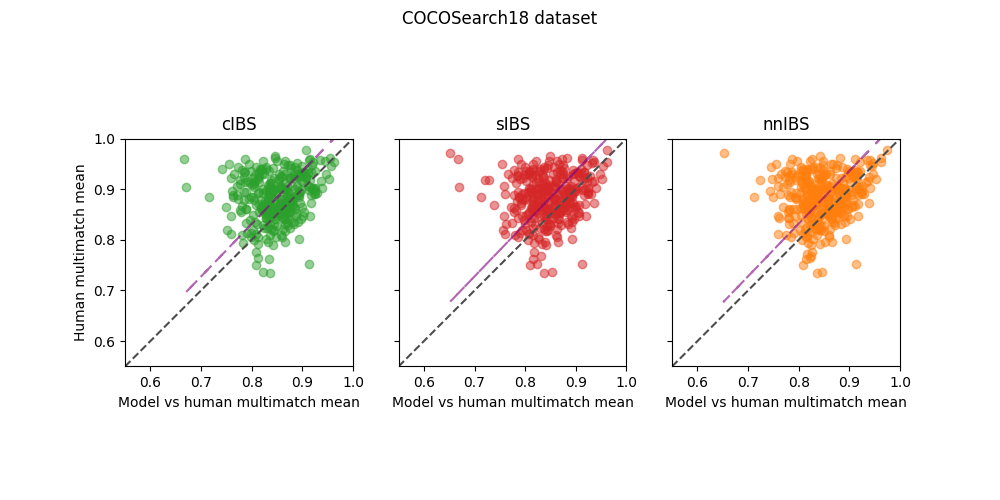
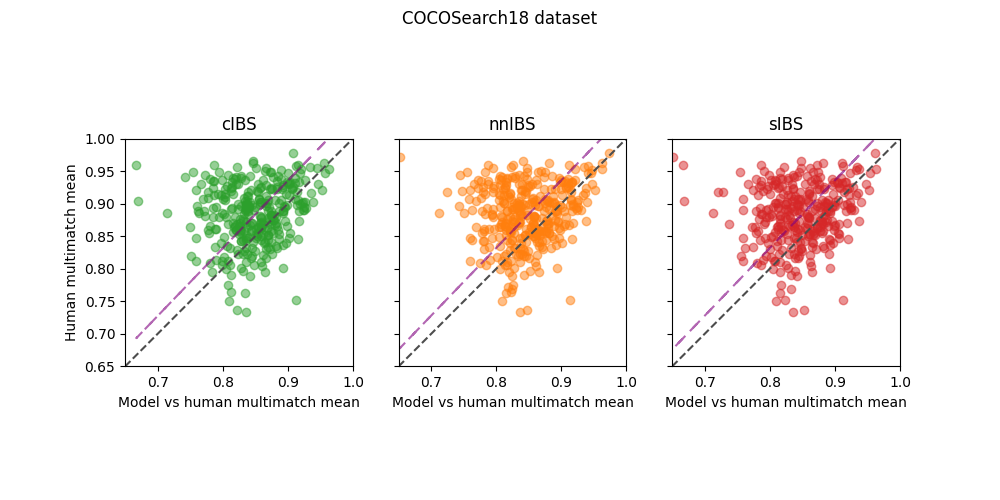
(Results) Cambio en escala MM y colores

diff --git a/Metrics/main.py b/Metrics/main.py
@@ -31,7 +31,7 @@ def main(datasets, models, compute_cumulative_performance, compute_multimatch, c
 
         # Compute models metrics and compare them with human subjects metrics
         color_index = 0
-        for model_name in models:
+        for model_name in sorted(models):
             if not path.isdir(path.join(dataset_results_dir, model_name)):
                 print('No results found for ' + model_name + ' in ' + dataset_name + ' dataset')
                 continue

diff --git a/Metrics/scripts/multimatch.py b/Metrics/scripts/multimatch.py
@@ -72,8 +72,8 @@ class Multimatch:
             y_vector.append(value_y)
 
         # Set same scale for every dataset
-        ax.set_ylim(0.55, 1.0)
-        ax.set_xlim(0.55, 1.0)
+        ax.set_ylim(0.65, 1.0)
+        ax.set_xlim(0.65, 1.0)
         # Plot multimatch
         ax.scatter(x_vector, y_vector, color=plot_color, alpha=0.5)
 

diff --git a/Metrics/constants.py b/Metrics/constants.py
@@ -9,5 +9,5 @@ MAX_DIR_SIZE = 10 # MBytes, for probability maps dirs
 FILENAME = 'Metrics.json'
 
 # To ensure models have the same color in the plots across all datasets
-MODELS_COLORS = ['#2ca02c', '#d62728', '#ff7f0e']
+MODELS_COLORS = ['#2ca02c', '#ff7f0e', '#d62728']
 HUMANS_COLOR  = '#1f77b4'
